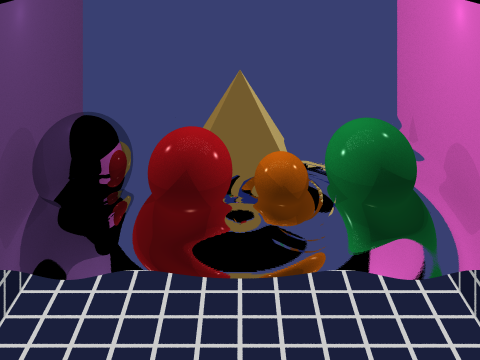
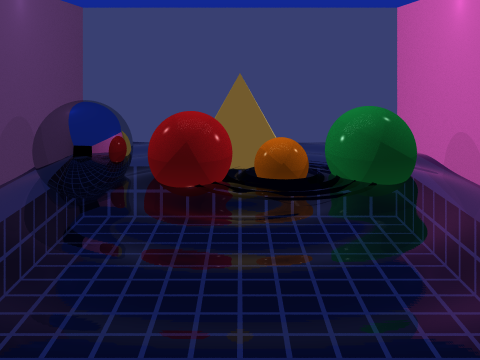
hehe

diff --git a/materials/PoolWater.cpp b/materials/PoolWater.cpp
@@ -3,6 +3,8 @@
 #include "../utilities/Ray.hpp"
 #include "../world/World.hpp"
 #include "../tracers/Tracer.hpp"
+#include <cmath>
+#include <algorithm>
 
 PoolWater::PoolWater(float kr, float rw, const RGBColor& tint)
     : specular_brdf(kr, RGBColor(1.0f)),
@@ -21,14 +23,19 @@ RGBColor PoolWater::shade(const ShadeInfo& s) const {
     Ray      reflect_ray(reflect_origin, wi);
     RGBColor reflected = s.w->tracer_ptr->trace_ray(reflect_ray, s.depth + 1);
 
-    // --- Transmitted ray (straight through, slightly refracted downward) ---
-    // Simple approximation: continue ray direction unchanged (no bend).
-    // This lets us see tiles directly below the water surface.
+    // --- Transmitted ray (straight through into pool) ---
     Point3D  trans_origin = s.hit_point - s.normal * 0.002f;
-    Ray      trans_ray(trans_origin, s.ray.d);  // same direction, passes through
+    Ray      trans_ray(trans_origin, s.ray.d);
     RGBColor transmitted = s.w->tracer_ptr->trace_ray(trans_ray, s.depth + 1);
 
-    // Blend: reflection on top, tiles visible underneath
-    return reflected * reflect_weight
-         + transmitted * water_tint * (1.0f - reflect_weight);
+    // Fresnel-like blend: more reflective at grazing angles, more transparent
+    // when looking straight down. ndotwo is cos(theta): 1=normal incidence, 0=grazing.
+    float ndotwo  = (float)std::fabs(s.normal * wo);
+    // Schlick approximation: F = F0 + (1-F0)*(1-cos)^5
+    float F0      = reflect_weight;           // base reflectance at normal incidence
+    float fresnel = F0 + (1.0f - F0) * powf(1.0f - ndotwo, 5.0f);
+    fresnel       = std::min(fresnel, 0.85f); // cap so water never becomes a pure mirror
+
+    return reflected  * fresnel
+         + transmitted * water_tint * (1.0f - fresnel);
 }

diff --git a/samplers/Jittered.cpp b/samplers/Jittered.cpp
@@ -35,7 +35,9 @@ std::vector<Ray> Jittered::get_rays(int px, int py) const {
             Point3D p(world_x, world_y, world_z);
             Vector3D dir = camera_ptr->get_direction(p);
 
-            Ray ray(p, dir);
+            // True pinhole: ray starts at camera eye, travels through viewplane pixel
+            Point3D cam_origin = camera_ptr->get_origin();
+            Ray ray(cam_origin, dir);
             ray.w = weight;
             rays.push_back(ray);
         }

diff --git a/cameras/Camera.hpp b/cameras/Camera.hpp
@@ -24,4 +24,7 @@ public:
 
   // Get direction of projection for a point.
   virtual Vector3D get_direction(const Point3D &p) const = 0;
+
+  // Get the camera origin (eye position).
+  virtual Point3D get_origin() const = 0;
 };

diff --git a/cameras/Perspective.hpp b/cameras/Perspective.hpp
@@ -33,4 +33,7 @@ public:
 
   // Get direction of projection for a point.
   virtual Vector3D get_direction(const Point3D &p) const;
+
+  // Get the camera origin.
+  virtual Point3D get_origin() const { return pos; }
 };